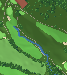
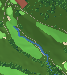
meadow_club: range drawn as rough with stakes; course doc

Changed region(s): [[0.0, 0.5067, 0.6866, 1.0]]

diff --git a/docs/courses/meadow_club.md b/docs/courses/meadow_club.md
@@ -1,0 +1,126 @@
+# Meadow Club
+
+Course id: `meadow_club` (data folder `data/meadow_club/`), branch `course/meadow_club`.
+
+## Build summary
+
+Built by a course chat overnight 2026-10-30/31 while the developer was asleep (not scouted).
+Everything came through the GitHub Actions fetch workflow; the developer supplied nothing.
+OSM maps the whole course (18 hole lines, tees, greens, fairways, bunkers): nothing was traced.
+The creeks OSM maps only as lines became red penalty areas from the lidar channel; the
+practice range, mapped as course, was cut out as out of bounds. USGS 3DEP 1 m DEM and the
+2018 USGS Northern California QL1 lidar (7 tiles, class 1) for the trees. Black (tips) and
+Blue tees, Blue the default. New theme `meadow_club`. Measured with the virtual tees: Black
+6,684 yd against 6,734 on the card, Blue 6,548 against 6,608; 17 of 18 holes within 3 %, hole 15
+at -3.8 % (flag).
+
+The first worker was stopped by the account's usage limit at about 00:15; a second one finished
+the lidar, card, checks and hand-off on 2026-10-31.
+
+## Facts
+
+-   **Location:** 1001 Bolinas Road, Fairfax, Marin County, California, in a valley on the north
+    side of Mount Tamalpais above Fairfax. `state` CA.
+-   **Design:** Alister MacKenzie with Robert Hunter, opened 1927 (MacKenzie's first US
+    design); restoration by Mike DeVries from 1999. The bunkers are said to follow the lobed
+    leaves of the valley oaks on the hillsides (Geoff Shackelford via The Fried Egg).
+-   **UTM zone:** 10N (EPSG:32610). World 1,792 x 1,536 m (x0 532795, y0 4201750): the OSM
+    boundary (way 44421428, 1,498 x 1,088 m) plus scenery. Theme `meadow_club`. Wind 1-9 mph
+    (a sheltered inland valley in the Marin foothills; no Californian row in the defaults).
+-   **Data** (release `data-meadow_club`, all fetched by the workflow):
+    -   OSM: the standard Overpass export of the box 37.955-37.984 N, 122.637-122.598 W
+        (2026-10-31 03:22 UTC), `raw/overpass.geojson` (in git).
+    -   DEM: USGS 3DEP 1 m, tile x53y421, project CA_NoCal_Wildfires_B5b_QL1_2018 (NAD83 / UTM
+        10N, NAVD88 m), clipped by `intake.py raster` to `raw/usgs_dem_2018_1m_clip.tif` (in git).
+    -   Lidar: USGS 3DEP LPC, CA_NoCal_Wildfires_B5b_QL1_2018, 1 km tiles w2285-w2287 /
+        n1981-n1982 and w2286n1980 (NAD83(2011) Conus Albers, NAVD88 m), flown 3 Jan - 18 Feb
+        2019. No vegetation classes (1, 2, 7 only): trees from class 1, returns over 65 m dropped
+        (`max_height_m`), tops on OSM buildings dropped. The tile w2287n1980 (the world's
+        south-west corner, outside the course) isn't in the project; no trees there. Four tiles
+        timed out on rockyweb.usgs.gov and came on a retry. `make fetch NAME=meadow_club`
+        downloads and clips them (`release.json`).
+    -   Photo: NAIP via the USGS NAIPImagery ImageServer export (`incoming/`, art reference
+        and the native-grass read only).
+    -   Card: Stymie (third-party; no club card online). See Scorecard.
+-   **Water (all red):** the irrigation pond by the 14th and 15th greens (`red_water_osm`),
+    and the creeks from the lidar channel (`edits.json`, `proposed/channels_lidar.geojson`,
+    `flatten=no`): the main creek from the 18th down between 16/17 and 13-15/6 to the pond, the
+    creek along the 7th, two spurs by the 7th green and 16th tee, the gully in front of the 9th
+    tee and the drain short of the 10th green. Culverts left out.
+-   **Out of bounds:** the OSM boundary. The practice range between 10, 12 and 18 (OSM maps it
+    only as rough, a tee and a fairway) is out of bounds (`proposed/range.geojson`), drawn as
+    rough with stakes (`range_art: rough`, as at Oregon Golf Club); its chipping green stays a
+    wrong green.
+-   **Native grass:** the unirrigated grass between holes, read from the NAIP photo by
+    `make_native.py` (`proposed/native.geojson`, `fescue_areas`): straw-coloured rough in the
+    art; plays as rough.
+-   **Trees:** 19,836 from the lidar, 1,914 on the course; 2,762 read as conifers by crown
+    shape (redwoods and Douglas fir on the north slopes), the rest oaks and bay. Species are
+    flair. Three tops on a bunker and a tee dropped (spec 5.4); s06b found every tee shot clear.
+    Unmapped house roofs outside the boundary can read as trees (class-1 lidar, leaf-on for the
+    evergreens): scenery only.
+
+## Scorecard
+
+Stymie (stymie.golf, read 2026-10-30): every set per hole, par 71, men's stroke index; every row
+adds to its printed total. Black 6,734 (72.8/136), Blue 6,608 (72.0/135); White, Gold, Red,
+Green in `scorecard.csv`, not built. GolfPass has the same totals and pars but prints hole 12 as
+374 (its rows then don't add to its own totals) and rates Black 72.7/137, Blue 72.2/134. Stymie
+used.
+
+## Tees
+
+Black and Blue (developer, 2026-10-30: the furthest-back tees and Blue). Blue is the default.
+On 12 holes the two sets play from the same box at the same yardage.
+
+## Yardages (virtual tee within the real box where needed, adjustments.json)
+
+| | card | measured | with virtual tees |
+|---|---|---|---|
+| Black | 6,734 | 6,644 | 6,684 |
+| Blue | 6,608 | 6,508 | 6,548 |
+
+Flags and fixes (both sets): 1 (-4.7 % -> -2.5 %), 11 (-9.1 % -> -2.5 %), 12 (-3.4 % -> -2.5 %),
+15 (-4.3 % -> -3.8 %, flag), 18 (-6.1 % -> -2.5 %). Hole 11 was over 8 % from the box centre;
+built with the virtual tee at the back of the OSM box (developer's overnight call: pick, build,
+flag).
+
+## Logo and card
+
+-   **Logo:** "The Oak-Leaf Bunker": a bunker cut in the shape of a valley oak's lobed leaf with
+    a ball beside it, for the story that MacKenzie and Hunter shaped the bunkers after the oaks
+    (`assets-src/logo_concepts/meadow_club/`, `course_logos/meadow_club.py`). Original drawing.
+-   **Card:** the par-3 14th by the pond; rotates 13, 4 and 7 (`assets-src/cards/meadow_club.json`).
+
+## Theme
+
+`meadow_club`: Stanford's peninsula palette (the same Bay Area oak woodland, redwoods and golden
+summer hills) with the rough's straw tones for the native grass
+(`assets-src/palettes/meadow_club.json`, `game/public/sprites/trees_meadow_club*`).
+
+## Open items (for the developer)
+
+1.  **Hole 11** is 138 yd from the centre of its OSM tee box against 152 on the card (-9.1 %).
+    Built from the back of the box (148 yd, -2.5 %). Options: accept; or a tee box behind the
+    mapped one if a photo shows one. Recommendation: accept.
+2.  **Hole 15** is 487 yd against 506 (-3.8 %) even from the back of its box. Recommendation:
+    accept.
+3.  **Card:** third-party (Stymie). A photo of the printed card would settle hole 12 (382 or 374)
+    and the ratings.
+4.  **Lidar date:** winter 2019. Trees cut or planted since are not known; DeVries' later work
+    is not checked against the data.
+5.  **Range look:** drawn as rough with stakes (OGC precedent). Say if you want the stripes back.
+
+## Config keys used beyond the defaults
+
+`red_water_osm`, `fescue_areas`, `range_art`, `laz.max_height_m`, `trees_off_fairways_m`,
+`driving_range_is_ob`.
+
+## Lessons
+
+-   rockyweb.usgs.gov times out on some tiles from the GitHub runner; a plain retry worked. The
+    TNM S3 path `prd-tnm.s3.amazonaws.com/StagedProducts/Elevation/LPC/Projects/...` returned
+    404 for this project's tiles.
+-   The release API gives each asset's sha256 (`digest`), handy for `release.json`.
+-   `s05` doesn't rerun when only `laz` changes in the config: force it with
+    `ARGS="--from s05_trees"` after adding lidar.
